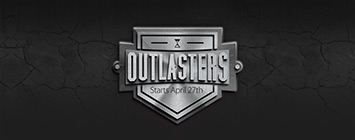
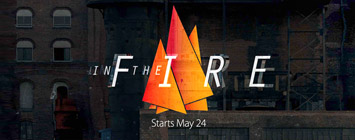
Add small series ribbon to homepage

diff --git a/css/application.css b/css/application.css
@@ -2203,7 +2203,6 @@ form .has-error {
         height: 320px; } }
   .home .next-week {
     background-image: url("/images/home/next-week-small.jpg");
-    background-size: 430px auto;
     background-position: center;
     background-repeat: no-repeat;
     height: 140px;
@@ -2216,11 +2215,11 @@ form .has-error {
     @media only screen and (-webkit-min-device-pixel-ratio: 1.3), only screen and (min--moz-device-pixel-ratio: 1.3), only screen and (-o-min-device-pixel-ratio: 1.3 / 1), only screen and (min-resolution: 125dpi), only screen and (min-resolution: 1.3dppx) {
       .home .next-week {
         background-image: url("/images/home/next-week-small@2x.jpg");
-        background-size: 430px auto; } }
-    @media screen and (min-width: 430px) {
+        background-size: 355px auto; } }
+    @media screen and (min-width: 400px) {
       .home .next-week {
         height: 190px;
-        background-size: 600px; } }
+        background-size: auto 190px; } }
     @media screen and (min-width: 600px) {
       .home .next-week {
         background-image: url("/images/home/next-week.jpg");
@@ -2228,7 +2227,7 @@ form .has-error {
   @media only screen and (min-width: 600px) and (-webkit-min-device-pixel-ratio: 1.3), only screen and (min-width: 600px) and (min--moz-device-pixel-ratio: 1.3), only screen and (min-width: 600px) and (-o-min-device-pixel-ratio: 1.3 / 1), only screen and (min-width: 600px) and (min-resolution: 125dpi), only screen and (min-width: 600px) and (min-resolution: 1.3dppx) {
     .home .next-week {
       background-image: url("/images/home/next-week@2x.jpg");
-      background-size: 750px auto; } }
+      background-size: 800px auto; } }
 
     @media screen and (min-width: 750px) {
       .home .next-week {

diff --git a/scss/pages/_home.scss b/scss/pages/_home.scss
@@ -107,8 +107,7 @@ span[data-churchonline-counter] {
 }
 
 .next-week {
-  @include retina-image(/images/home/next-week-small, 430px auto, jpg);
-  background-size: 430px auto;
+  @include retina-image(/images/home/next-week-small, 355px auto, jpg);
   background-position: center;
   background-repeat: no-repeat;
   height: 140px;
@@ -119,13 +118,13 @@ span[data-churchonline-counter] {
   border-top: 1px solid #444;
   border-bottom: 1px solid #444;
  
-  @media screen and (min-width: 430px) {
+  @media screen and (min-width: 400px) {
     height: 190px;
-    background-size: 600px;
+    background-size: auto 190px;
   }
 
   @media screen and (min-width: 600px) {
-    @include retina-image(/images/home/next-week, 750px auto, jpg);
+    @include retina-image(/images/home/next-week, 800px auto, jpg);
     height: 160px;
   }
 
